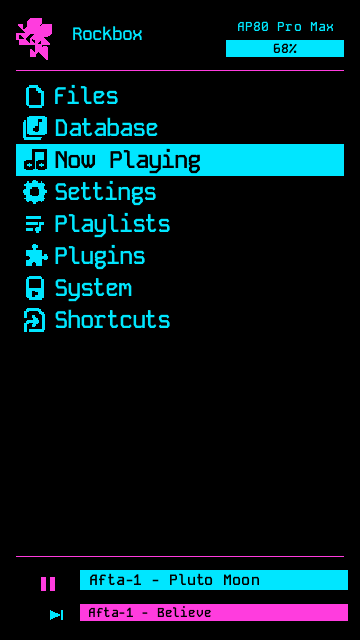
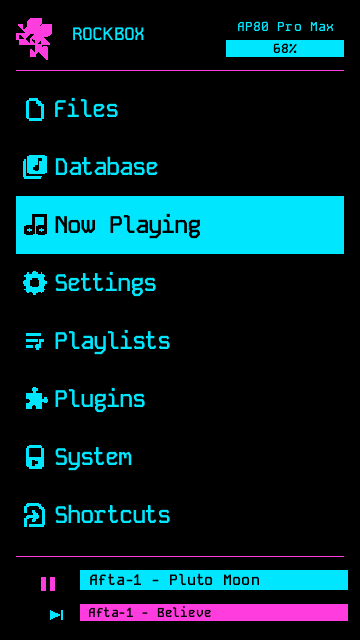
Regenerate preview screenshots on the 2.0.1 skin
All three 360x640 previews re-captured from the AP80 Pro Max simulator
running this theme:

- now_playing: FLAC file line with the codec in pink (192 kbps),
  3:22 / 5:00 with the progress bar matching the position, 1/3
- menu: 50 px rows (list padding: 26), playback footer with current and
  up-next tracks
- charging: USB dashboard, 64%, 3.94 V, CHARGING, 23:18 2026-09-28

The previous previews predate 2.0.1, so they still showed the old
14 px LED-meter gap.

diff --git a/README.md b/README.md
@@ -21,7 +21,7 @@ Built for the **360 × 640 portrait touchscreen**: large cover art, live stereo 
   </tr>
 </table>
 
-Each screenshot is shown at the device's exact **360 × 640** format (9:16, 1:1 pixels). They are unretouched **Rockbox AP80 Pro Max simulator captures** — no mockups, stretching or painted-over UI. On narrower windows, scroll the row sideways to see all three.
+Each screenshot is shown at the device's exact **360 × 640** format (9:16, 1:1 pixels). They are unretouched **Rockbox AP80 Pro Max simulator captures** — no mockups, stretching or painted-over UI. All three were re-captured on the 2.0.1 skin, so the tighter LED-meter spacing, the 50 px list rows and the codec colour are the current ones. On narrower windows, scroll the row sideways to see all three.
 
 ### Now Playing
 
